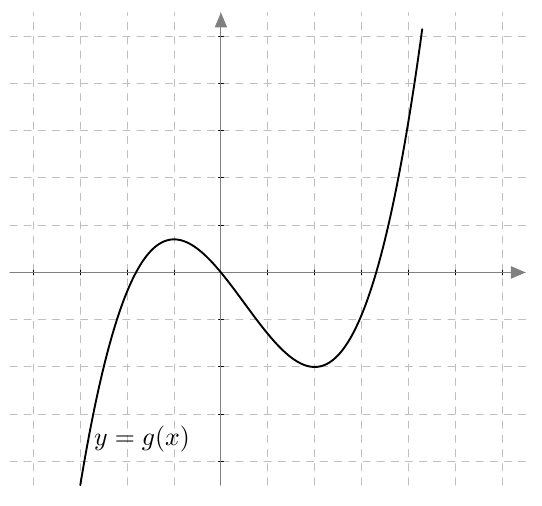
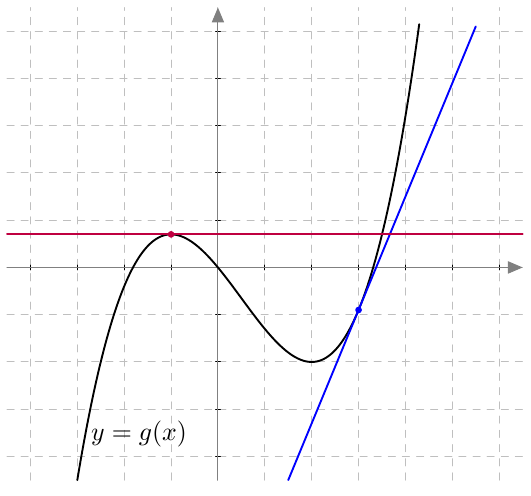
Lisää

diff --git a/kurssit/maa6/luku1/index.html b/kurssit/maa6/luku1/index.html
@@ -119,9 +119,13 @@ topnav: maa6
                             Tutki alla olevaa kuvaa ja päättele sen avulla vastaukset seuraaviin kysymyksiin:
                         </p>
                         <ol class="a">
-                            <li> arvo kohdassa $x = -2$ </li>
-                            <li> derivaatta kohdassa $x = -2$  </li>
-                            <li> derivaatta kohdassa $x = 1$? </li>
+                            <li> Mitä on $g'(-1)$ eli mikä on funktion $g$ derivaatta kohdassa $x = -1$? </li>
+                            <li> Onko funktion $g$ derivaatta kohdassa $x = 3$ positiivinen vai negatiivinen?  </li>
+                            <li> Anna esimerkki kohdasta $x$, jossa sekä funktion arvo että funktion derivaatta ovat positiivisia. </li>
+                            <li> Anna esimerkki kohdasta $x$, jossa funktion arvo on negatiivinen mutta funktion derivaatta on positiivinen.</li>
+                            <li> Anna esimerkki kohdasta $x$, jossa funktion $g$ derivaatta on negatiivinen. </li>
+                            <li> Kuinka monessa kohdassa funktion $g$ derivaatta on nolla? Selitä omin sanoin, miten nämä kohdat tunnistaa kuvaajasta. </li>
+                            <li> Kuinka monessa kohdassa funktio $g$ saa arvon nolla? Selitä omin sanoin, miten nämä kohdat tunnistaa kuvaajasta. </li>
                         </ol>
                         <img src="/kurssit/maa6/kuvat/kuva04.png" max-width: 100%; width: auto; height: auto;/>
                              <h2>
